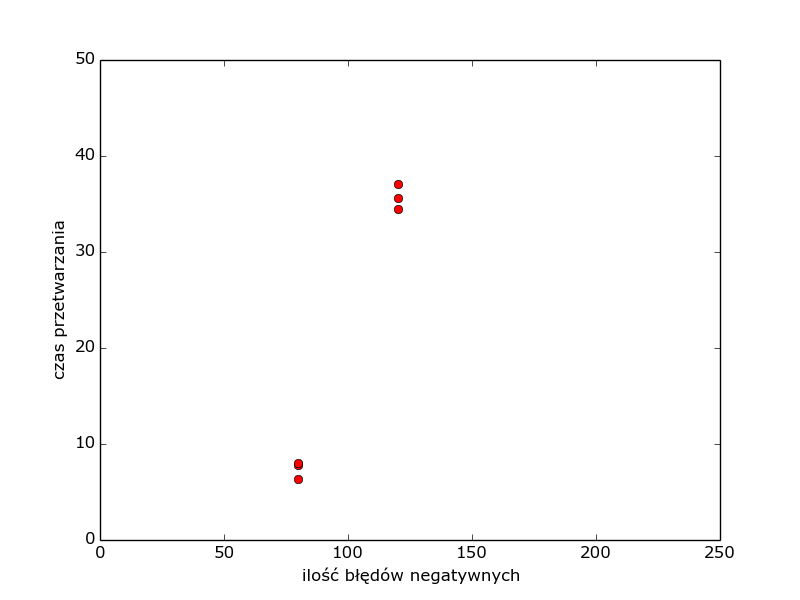
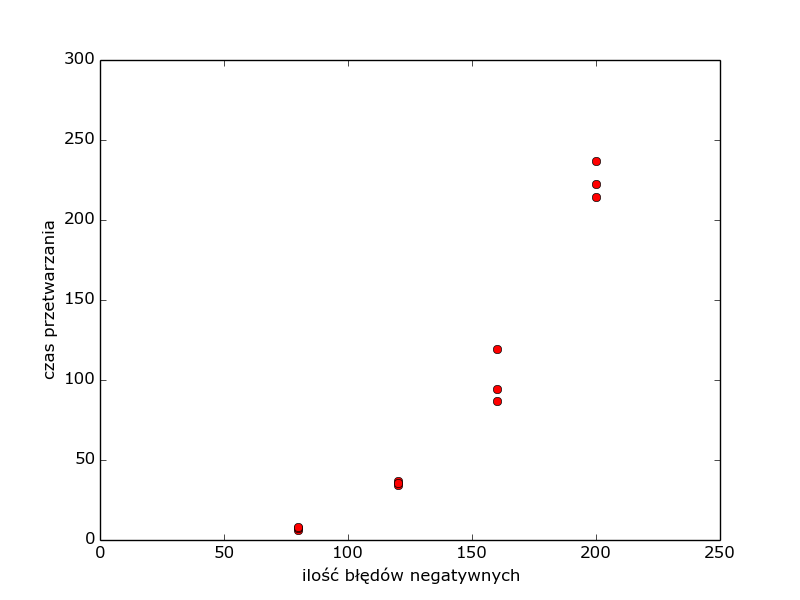
saving work

diff --git a/generate_plot.py b/generate_plot.py
@@ -1,14 +1,20 @@
+ # -*- coding: utf-8 -*-
 import matplotlib.pyplot as plt
 import pandas as pd
 import numpy as np
 
+
+
 df = pd.read_csv("stat_new.csv", sep=";")
+
+splits = df['filename'].str.split('.')
+df['n'] = splits.str[1].str[:3]
 
 # plt.plot(np.arange(47), df.sort("best_size")["best_size"].values, 'ro')
 
-# #plt.plot([1,2,3,4], [1,4,9,16], 'ro')
+# plt.plot([1,2,3,4], [1,4,9,16], 'ro')
 # plt.axis([0, 48, 0, 500])
-# #plt.show()
+# plt.savefig('plots/1.png')
 
 
 
@@ -27,7 +33,7 @@ df = pd.read_csv("stat_new.csv", sep=";")
 # plt.plot(np.arange(len(time_positive)), time_positive.values, 'ro')
 # #plt.show()
 
-# time_negative = df[df['filename'].str.contains("\-")].sort("time")["time"]
+#time_negative = df[df['filename'].str.contains("\-")].sort("time")["time"]
 # plt.plot(np.arange(len(time_negative)), time_negative.values, 'ro')
 # #plt.show()
 
@@ -43,8 +49,117 @@ positive_random = df[df['filename'].str.contains('9\.200\+80|18\.200\+80|35\.200
 positive_end_errors = df[df['filename'].str.contains('9\.200\+20|18\.200\+20|35\.200\+20|20\.300\+30|55\.300\+30|58\.300\+30|55\.400\+40|62\.400\+40|68\.400\+40|10\.500\+50|25\.500\+50|53\.500\+50')]
 
 #plt.plot(np.arange(47), df[df['filename'].str.contains("\-")].sort("time")["time"].values, 'ro')
+splits = negative_random['filename'].str.split('-')
+negative_random['errors'] = splits.str[1]
+splits = negative_repeat['filename'].str.split('-')
+negative_repeat['errors'] = splits.str[1]
+
+splits = positive_random['filename'].str.split('+')
+positive_random['errors'] = splits.str[1]
+splits = positive_end_errors['filename'].str.split('+')
+positive_end_errors['errors'] = splits.str[1]
 
 print len(negative_random)
 print len(negative_repeat)
 print len(positive_random)
 print len(positive_end_errors)
+
+print negative_random
+print negative_repeat
+print positive_random
+print positive_end_errors
+
+############################
+# plt.plot(np.arange(len(negative_random)), df.sort("len_sequences")["len_sequences"].values, 'ro')
+# plt.axis([0, 48, 0, 1500], 'ro')
+# plt.savefig("plots/negative_random length")
+#############################
+
+#czas od ilosci bledow
+
+plt.plot(negative_random.sort('errors')['errors'].values, negative_random.sort('errors')['time'].values, 'ro')
+plt.axis([0, 250, 0, 50], 'ro')
+plt.ylabel(u'czas przetwarzania')
+plt.xlabel(u'ilość blędów negatywnych')
+plt.savefig("plots/errors-time negative random")
+plt.clf()
+
+plt.plot(negative_repeat.sort('errors')['errors'].values, negative_repeat.sort('errors')['time'].values, 'ro')
+plt.axis([0, 250, 0, 50], 'ro')
+plt.ylabel(u'czas przetwarzania')
+plt.xlabel(u'ilość błędów negatywnych')
+plt.savefig("plots/errors-time negative repeat")
+plt.clf()
+
+plt.plot(positive_random.sort('errors')['errors'].values, positive_random.sort('errors')['time'].values, 'ro')
+plt.axis([0, 250, 0, 300], 'ro')
+plt.ylabel(u'czas przetwarzania')
+plt.xlabel(u'ilość błędów negatywnych')
+plt.savefig("plots/errors-time positive random")
+plt.clf()
+
+plt.plot(positive_end_errors.sort('errors')['errors'].values, positive_end_errors.sort('errors')['time'].values, 'ro')
+plt.axis([0, 250, 0, 50], 'ro')
+plt.ylabel(u'czas przetwarzania')
+plt.xlabel(u'ilość błędów negatywnych')
+plt.savefig("plots/errors-time positive end errors")
+plt.clf()
+
+############################
+# efektywnosc od ilosci bledow
+
+plt.plot(negative_random.sort('errors')['errors'].values, negative_random.sort('errors')['efficiency'].values, 'ro')
+plt.axis([0, 250, 0, 100], 'ro')
+plt.ylabel(u'efektywność')
+plt.xlabel(u'ilość błędów negatywnych')
+plt.savefig("plots/errors-efficiency negative random")
+plt.clf()
+
+plt.plot(negative_repeat.sort('errors')['errors'].values, negative_repeat.sort('errors')['efficiency'].values, 'ro')
+plt.axis([0, 250, 0, 100], 'ro')
+plt.ylabel(u'efektywność')
+plt.xlabel(u'ilość błędów negatywnych')
+plt.savefig("plots/errors-efficiency negative repeat")
+plt.clf()
+
+plt.plot(positive_random.sort('errors')['errors'].values, positive_random.sort('errors')['efficiency'].values, 'ro')
+plt.axis([0, 250, 0, 100], 'ro')
+plt.ylabel(u'efektywność')
+plt.xlabel(u'ilość błędów negatywnych')
+plt.savefig("plots/errors-efficiency positive random")
+plt.clf()
+
+plt.plot(positive_end_errors.sort('errors')['errors'].values, positive_end_errors.sort('errors')['efficiency'].values, 'ro')
+plt.axis([0, 250, 0, 100], 'ro')
+plt.ylabel(u'efektywność')
+plt.xlabel(u'ilość błędów negatywnych')
+plt.savefig("plots/errors-efficiency positive end errors")
+plt.clf()
+
+
+
+
+# czas od n
+
+plt.plot(df.sort('n')['n'].values, df.sort('n')['time'].values, 'ro')
+plt.axis([0, 550, 0, 700], 'ro')
+plt.ylabel(u'czas przetwarzania')
+plt.xlabel(u'n')
+plt.savefig("plots/time - n")
+plt.clf()
+
+
+# efektywnosc od n
+
+plt.plot(df.sort('n')['n'].values, df.sort('n')['efficiency'].values, 'ro')
+plt.axis([0, 550, 0, 100], 'ro')
+plt.ylabel(u'efektywność')
+plt.xlabel(u'n')
+plt.savefig("plots/efficiency - n")
+plt.clf()
+
+
+print negative_random["time"]
+print negative_repeat["time"].mean
+print positive_random["time"].mean
+print positive_end_errors["time"].mean

diff --git a/script.py b/script.py
@@ -136,8 +136,8 @@ def check_first(v):
 # Test section.
 best = find_best_sequence()
 
-print(best['str'])
-print(str(best['size'])+"/"+str(len(sequences))+" max")
+#print(best['str'])
+#print(str(best['size'])+"/"+str(len(sequences))+" max")
 print("%.2f" % float(best['size']/float(len(sequences))*100)+"% efficiency")
 
 with open('stat_new.csv', 'ab') as csvfile:
